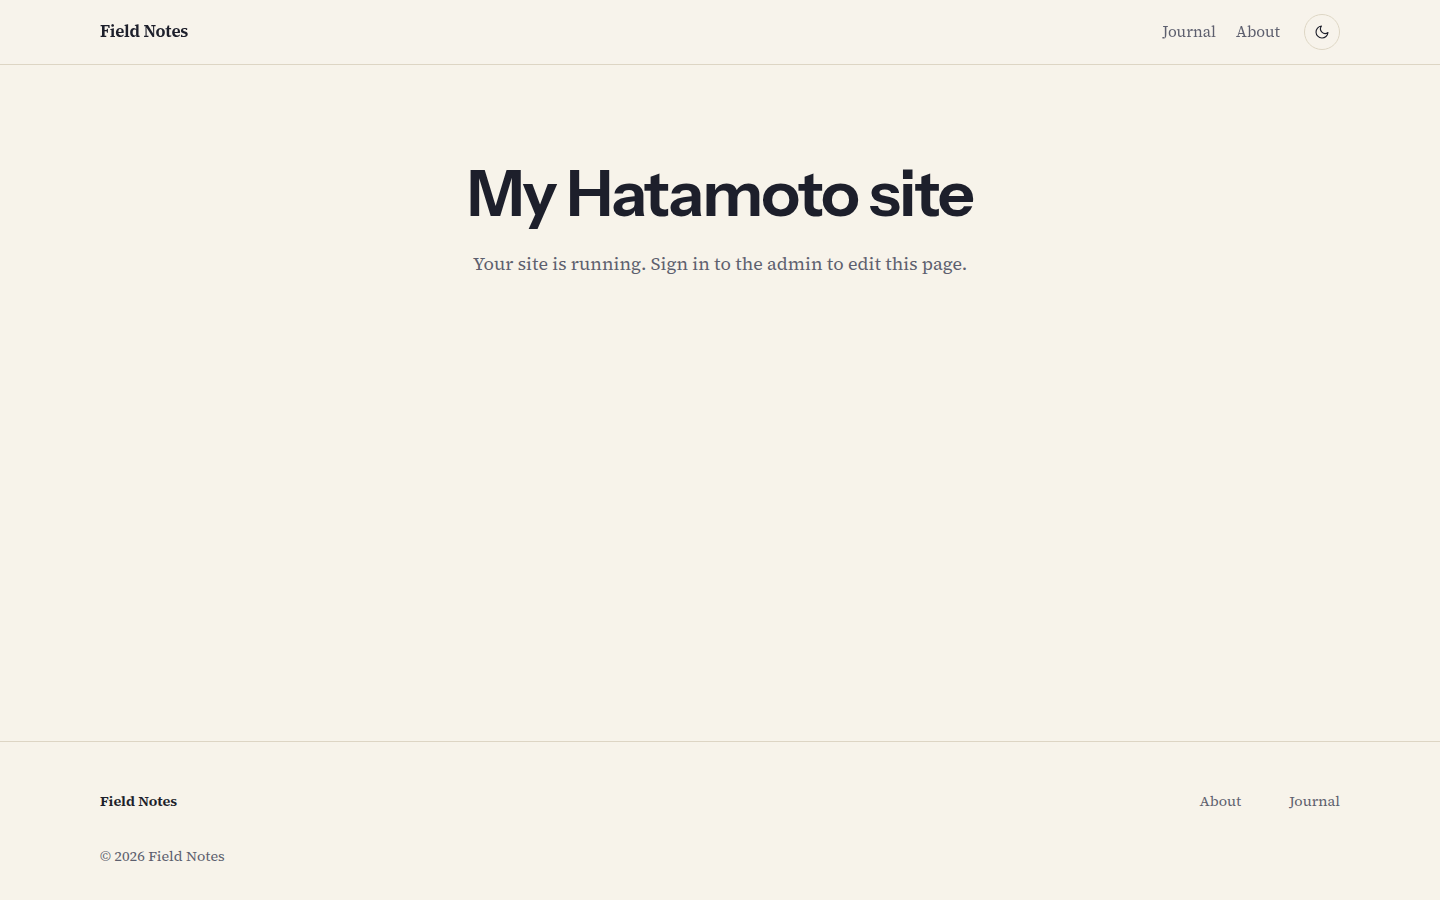
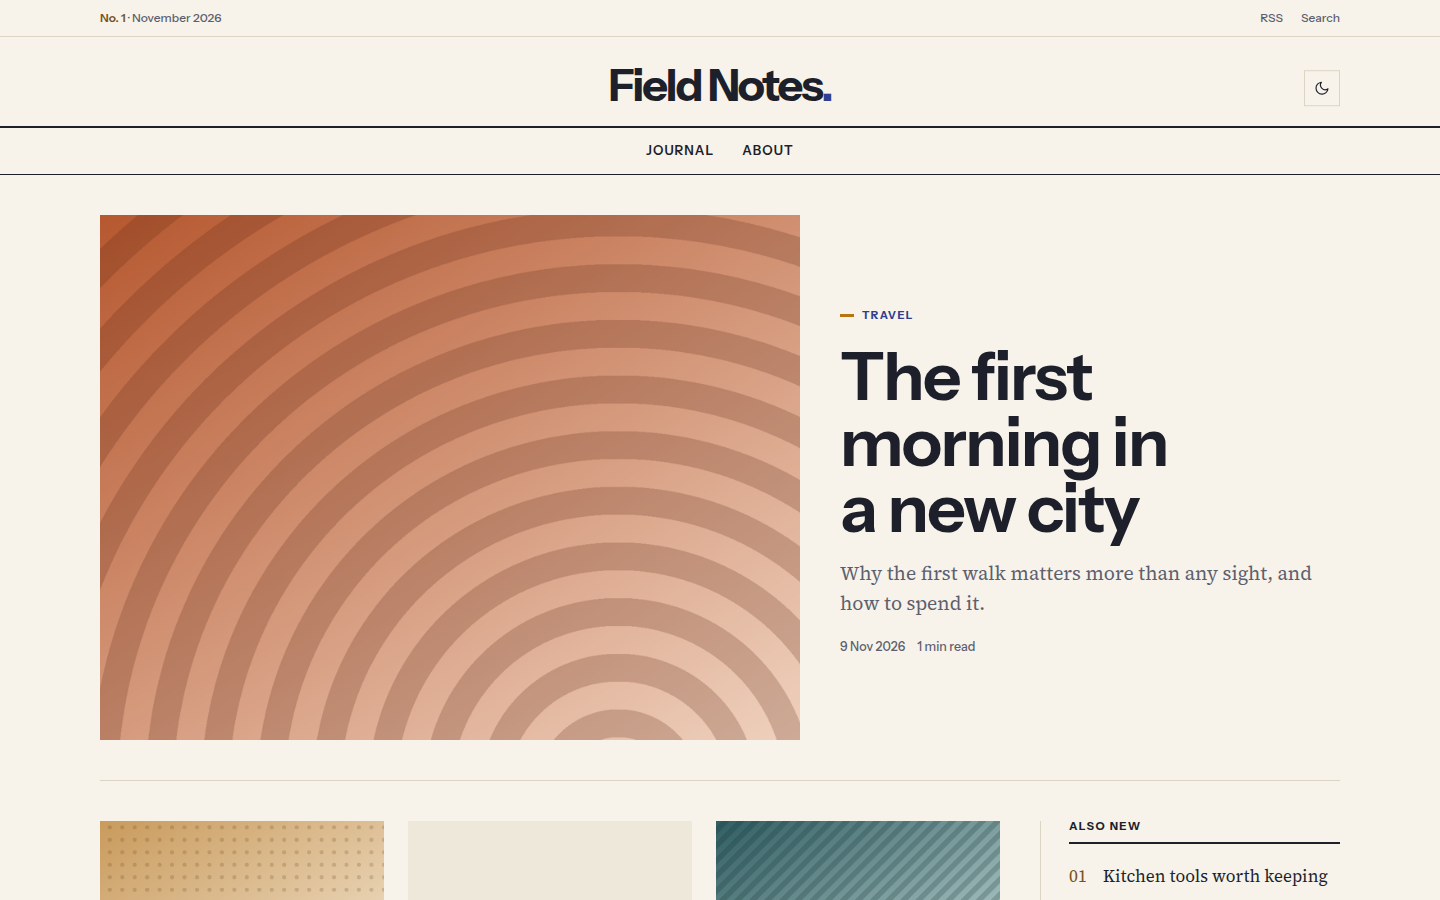
docs(ukiyou): readme, changelog and registry screenshot

diff --git a/themes/ukiyou/README.md b/themes/ukiyou/README.md
@@ -1,6 +1,8 @@
 # Ukiyou
 
-A dense magazine blog theme in indigo and saffron: centred masthead, lead story, three-column grid with a numbered sidebar, bold sans headlines over serif text.
+A dense magazine blog theme in indigo and saffron: a centred wordmark, a lead story beside a three-column grid with a numbered sidebar, bold sans headlines over serif text.
+
+Ukiyou reads like a printed issue: ruled navigation, an issue line above the masthead, flat colour and square corners. Light and dark, three accent presets, no JavaScript needed except the colour toggle.
 
 ![Ukiyou](assets/screenshot.png)
 
@@ -19,28 +21,53 @@ hatamoto theme activate ukiyou
 Layouts and sections the theme does not ship come from the built-in theme, so every
 page keeps rendering.
 
+## What it ships
+
+- Home, single post, archive, category and tag, author, search and 404 layouts.
+- An issue line, a centred wordmark, a ruled menu and an optional Subscribe button; on small screens the menu is a native disclosure that works without JavaScript.
+- A lead story, a grid of the next six, a numbered "Also new" list with topic chips, and a subscribe band, all filled from your content and hidden when there is nothing to show.
+- A single post with a story index, pull quotes, author box, previous and next links and related stories.
+- Light and dark, with text contrast of at least 4.5:1 for every accent.
+
 ## Settings
 
-**Theme > Themes > Ukiyou > Settings**:
+**Theme > Themes > Ukiyou > Settings**. Every setting has a default.
 
-| Setting | Default | What it does |
-| --- | --- | --- |
-| Colour mode | `light` | what a first visit shows: `light`, `dark` or `auto` (follows the system); visitors can still switch |
-| Spacing | `comfortable` | `compact` tightens the space between sections |
+| Setting | Type | Default | What it does |
+| --- | --- | --- | --- |
+| Colour mode (`color_mode`) | `light`, `dark`, `auto` | `auto` | What a first visit shows; `auto` follows the system. Visitors can still switch with the header toggle. |
+| Spacing (`density`) | `comfortable`, `compact` | `comfortable` | `compact` tightens the vertical space between blocks. |
+| Issue strip (`issue_strip`) | on/off | on | Shows the issue line above the wordmark; off moves Search into the menu bar. |
+| Issue label (`issue_label`) | text | `No. 1` | Printed in the issue strip, followed by the month and year of the newest post. |
+| Home sidebar (`sidebar`) | on/off | on | The numbered list and topic chips next to the home grid; off gives a four-column grid. |
+| Sidebar title (`sidebar_title`) | text | `Also new` | Heading of the numbered list. |
+| Subscribe link (`subscribe_url`) | URL | empty | Where the Subscribe button and band lead. Both stay hidden while this is empty. |
+| Subscribe headline (`subscribe_headline`) | text | `New stories, twice a month. Nothing else.` | Headline of the subscribe band on the home page. |
+| Accent (`accent`) | `saffron`, `brick`, `teal` | `saffron` | The colour of rules, bars, numerals and the Subscribe button. |
 
-Colours, fonts and corners follow **Theme > Colours and fonts**.
+## Colours and fonts
+
+**Theme > Colours and fonts** restyles the primary colour (indigo by default), background, text,
+fonts and corners. The paper, panel, rule and muted tones, and the accent presets, are the
+theme's own, set for contrast on the default palette.
+
+## Fonts
+
+[Instrument Sans](https://github.com/Instrument/instrument-sans) (headlines and labels) and
+[Source Serif 4](https://github.com/adobe-fonts/source-serif) (text), both under the SIL Open
+Font License 1.1, self-hosted in `assets/fonts/` with their licence files.
 
 ## Develop
 
 From the root of the `hatamoto-themes` repository:
 
 ```sh
-scripts/dev-site.sh blog themes/ukiyou --serve   # a seeded local site with this theme, live reload
-scripts/check.sh themes/ukiyou                            # the full check: package, render, browser, screenshot
+scripts/dev-site.sh blog themes/ukiyou --serve                # a seeded local site with this theme, live reload
+scripts/check.sh themes/ukiyou --screenshot                   # the full check: package, render, browser, screenshot
 ```
 
 `dev/` is not part of the package.
 
 ## License
 
-Apache-2.0, see [LICENSE](LICENSE).
+Apache-2.0, see [LICENSE](LICENSE). The fonts keep their own licences.

diff --git a/themes/ukiyou/CHANGELOG.md b/themes/ukiyou/CHANGELOG.md
@@ -2,4 +2,9 @@
 
 ## 0.1.0
 
-- First version.
+- First release: a dense magazine blog theme in indigo and saffron.
+- Layouts for home, single post, archive, category and tag, author, search and 404.
+- Lead story, three-column grid, numbered sidebar with topic chips and an optional subscribe band.
+- Nine settings: colour mode, spacing, issue strip and label, sidebar and its title, subscribe link and headline, accent.
+- Three accent presets (saffron, brick, teal) and a dark mode, both checked for AA contrast.
+- Self-hosted Instrument Sans and Source Serif 4.
